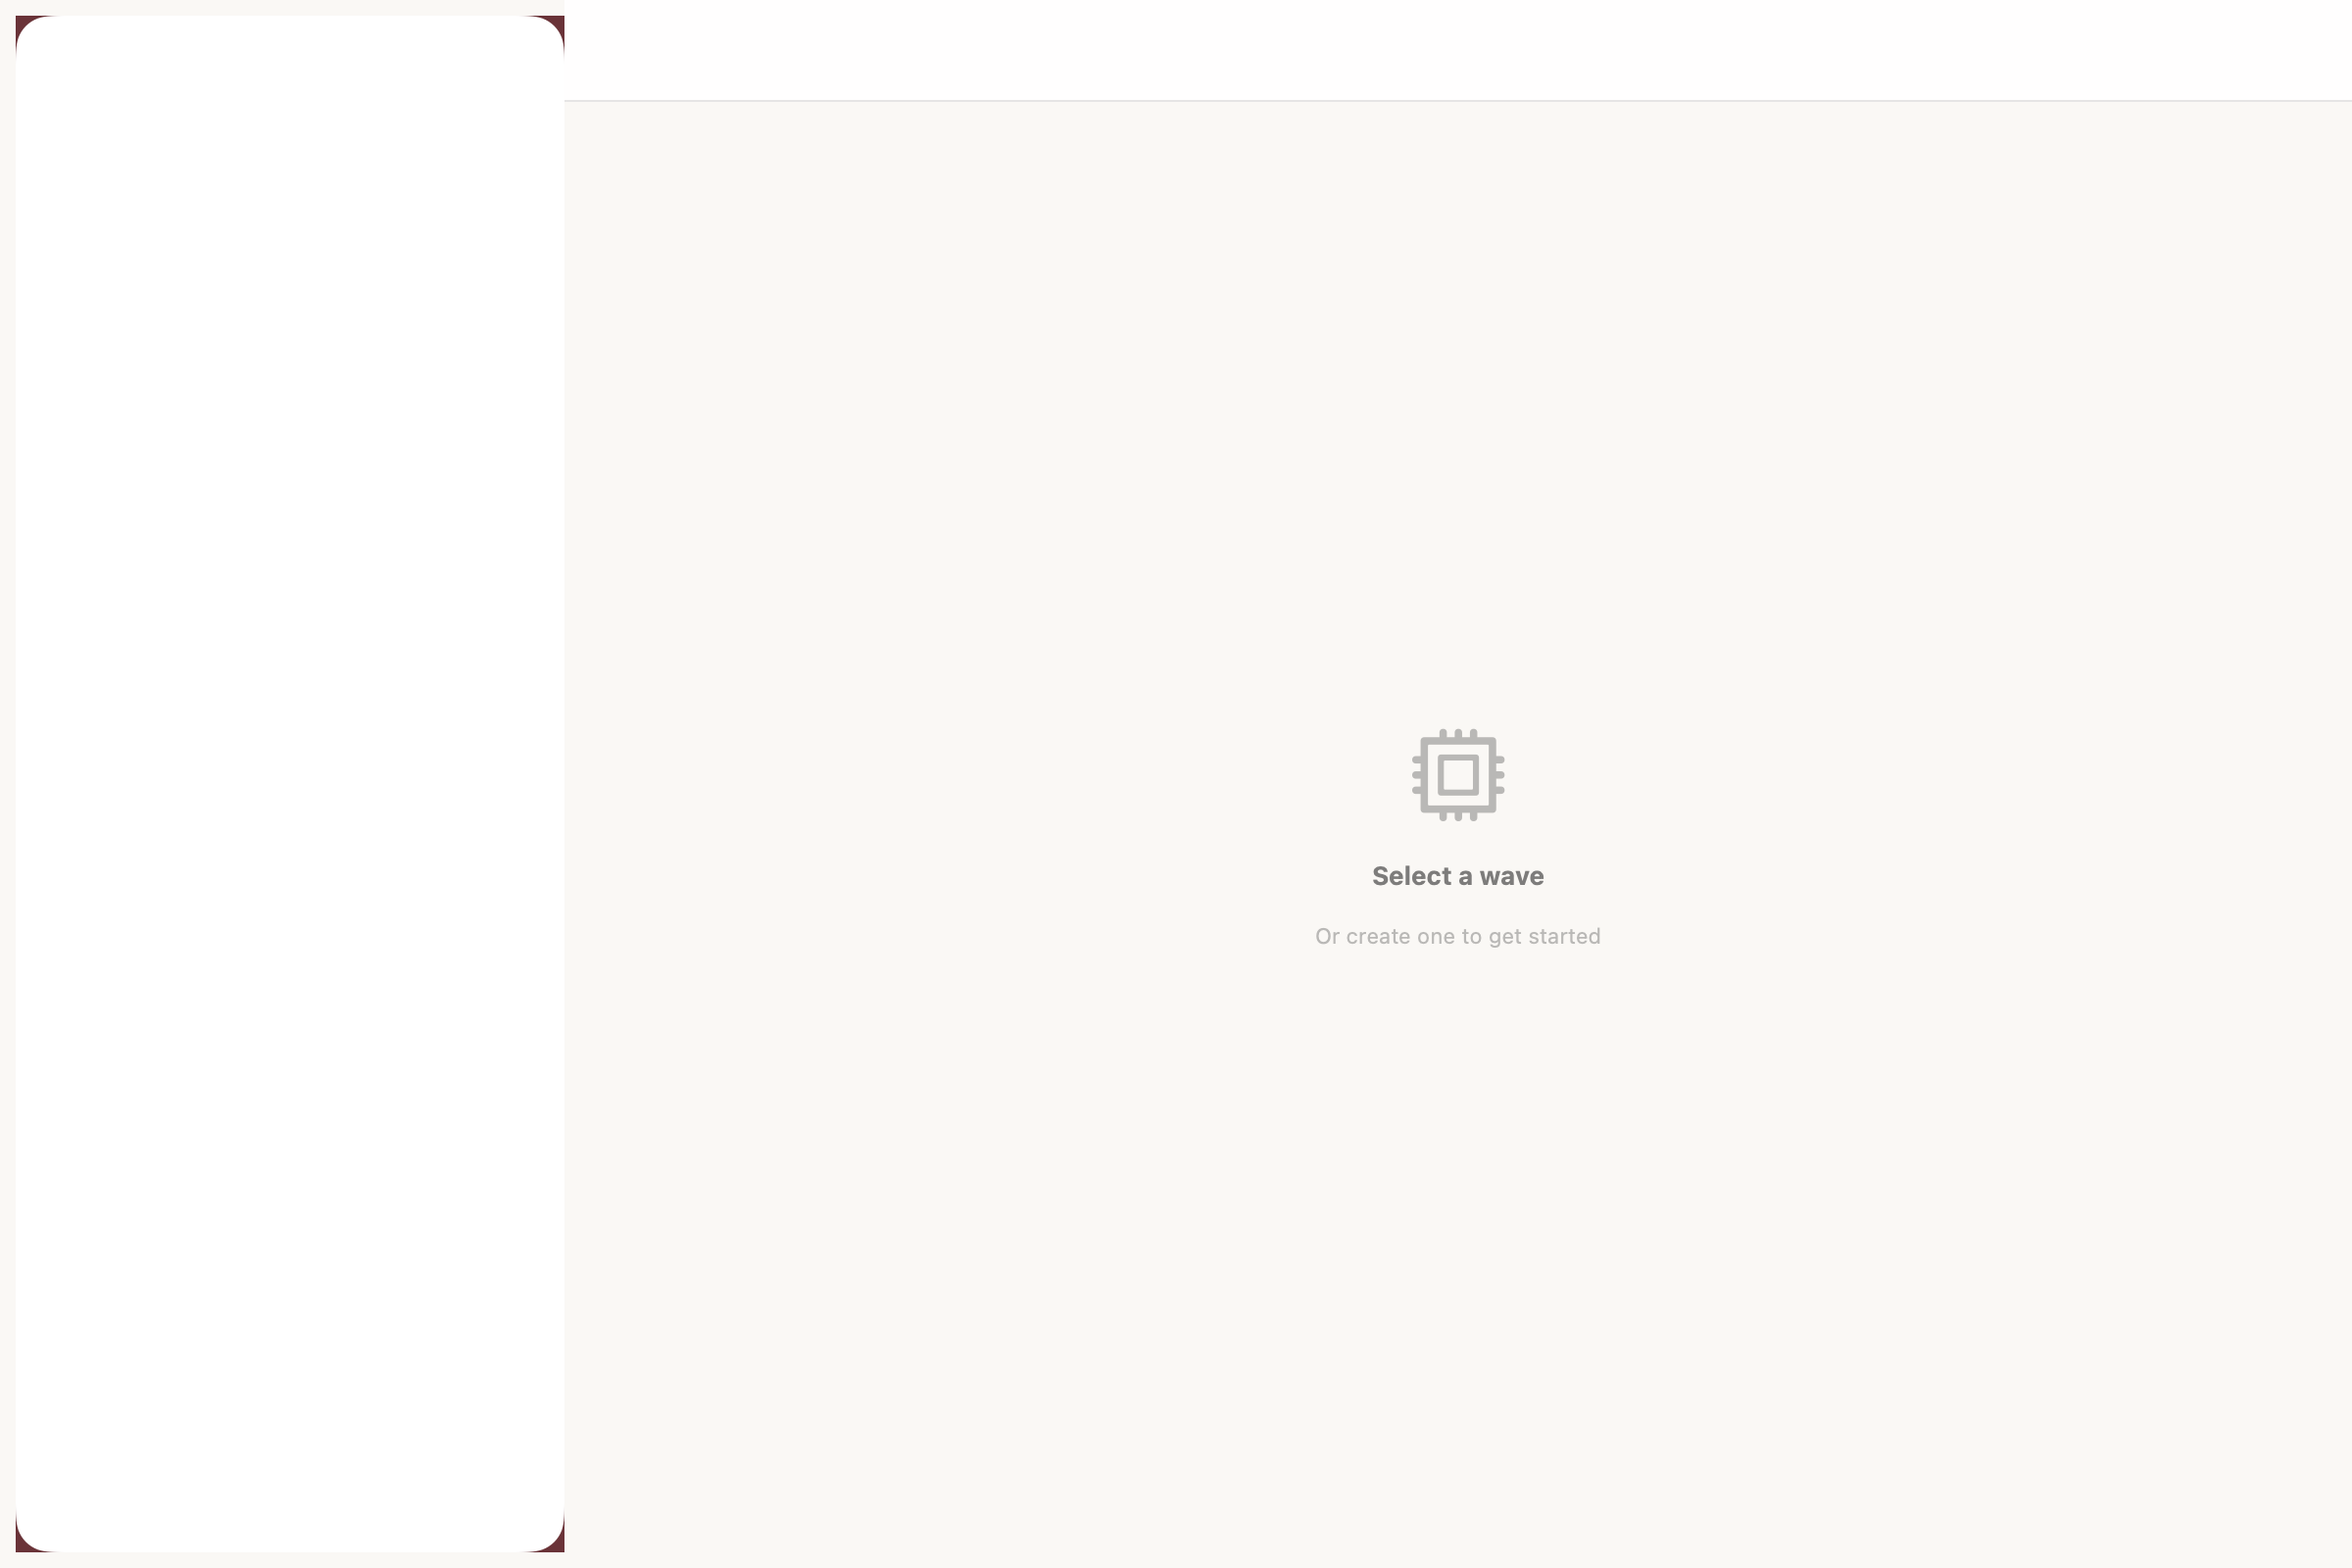
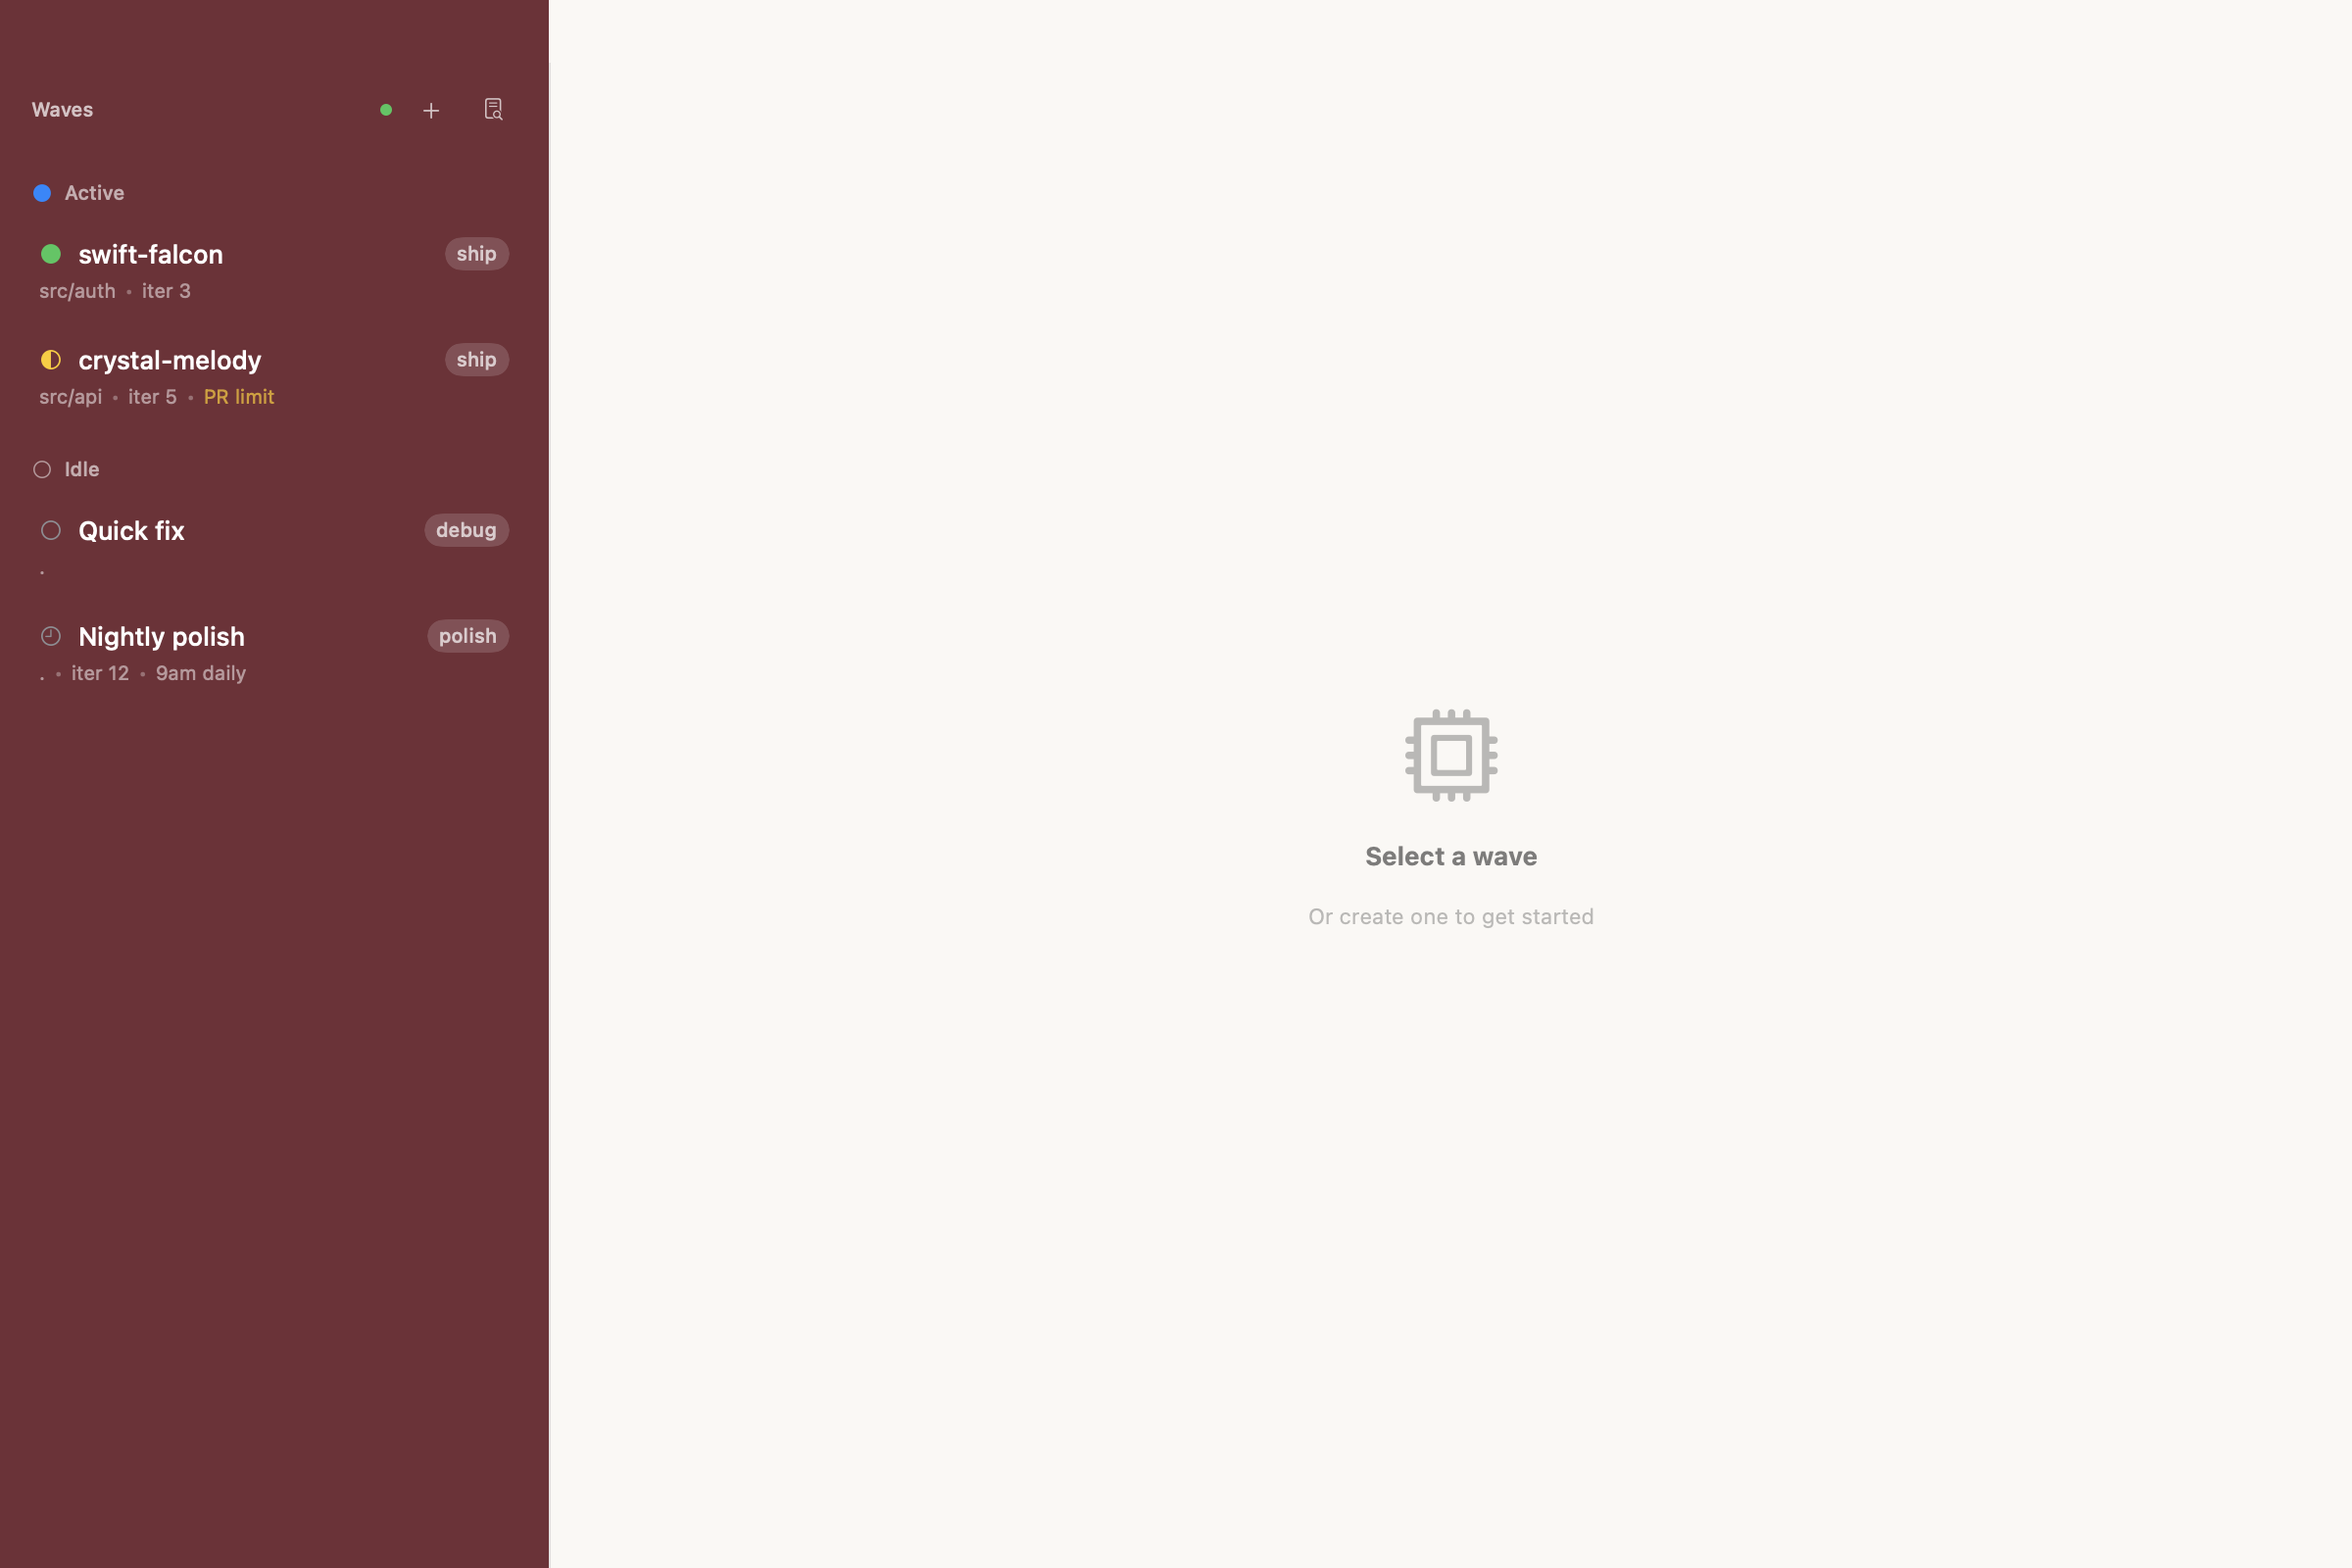
lf gate: screenshot: fix NavigationSplitView capture by using HStack layout
NavigationSplitView's sidebar doesn't render properly with bitmapImageRepForCachingDisplay. Replace with explicit HStack layout for screenshot mode, skip background refresh to preserve mock data, and add proper window activation before capture.

Changed region(s): [[0.0, 0.0, 0.25, 1.0], [0.5625, 0.4375, 0.6562, 0.625]]

diff --git a/swift/Concerto/Views/ScreenshotWindow.swift b/swift/Concerto/Views/ScreenshotWindow.swift
@@ -17,25 +17,30 @@ struct ScreenshotWindow: View {
     @State private var hasCaptured = false
 
     var body: some View {
-        ContentView()
+        // Use HStack layout for screenshot mode - NavigationSplitView doesn't capture properly
+        ScreenshotLayout()
             .environment(repoState)
             .environment(sessionState)
             .environment(launcherState)
+            .task {
+                await setupState()
+            }
             .background(WindowAccessor(onWindowReady: { window in
                 Task { @MainActor in
-                    await setupAndCapture(window: window)
+                    await captureWhenReady(window: window)
                 }
             }))
     }
 
-    private func setupAndCapture(window: NSWindow) async {
+    /// Configure state before the view fully renders.
+    private func setupState() async {
         guard !hasLoaded else { return }
         hasLoaded = true
 
-        // Open the repo if specified
+        // Open the repo if specified (skip background refresh in mock mode to avoid overwriting mock data)
         if let repoPath = mode.repoPath {
             let repoURL = URL(fileURLWithPath: (repoPath as NSString).expandingTildeInPath)
-            await repoState.openRepo(repoURL, launcherState: launcherState, sessionState: sessionState)
+            await repoState.openRepo(repoURL, launcherState: launcherState, sessionState: sessionState, skipBackgroundRefresh: mode.mockLoops)
         }
 
         // Configure mock waves if requested
@@ -46,6 +51,14 @@ struct ScreenshotWindow: View {
         // Select a specific wave if requested
         if let branch = mode.selectBranch {
             repoState.selectedWave = repoState.waves.first { $0.branch == branch }
+        }
+    }
+
+    /// Wait for view to stabilize and capture.
+    private func captureWhenReady(window: NSWindow) async {
+        // Wait for state setup to complete
+        while !hasLoaded {
+            try? await Task.sleep(for: .milliseconds(50))
         }
 
         // Resize window if specified
@@ -59,8 +72,12 @@ struct ScreenshotWindow: View {
             window.setFrame(newFrame, display: true, animate: false)
         }
 
-        // Wait for UI to stabilize
-        try? await Task.sleep(for: .seconds(1))
+        // Make window visible and key to trigger SwiftUI rendering
+        window.makeKeyAndOrderFront(nil)
+        NSApp.activate(ignoringOtherApps: true)
+
+        // Wait for SwiftUI to render the view with updated state
+        try? await Task.sleep(for: .seconds(2))
 
         // Capture and exit
         await snapshotAndExit(window: window)
@@ -81,6 +98,60 @@ struct ScreenshotWindow: View {
 
         // Exit the app
         NSApp.terminate(nil)
+    }
+}
+
+/// Layout for screenshot capture that uses HStack instead of NavigationSplitView.
+/// NavigationSplitView's sidebar doesn't capture properly with bitmapImageRepForCachingDisplay.
+private struct ScreenshotLayout: View {
+    @Environment(RepoState.self) private var repoState
+    @Environment(SessionState.self) private var sessionState
+    @Environment(LauncherState.self) private var launcherState
+    @Environment(\.colorScheme) private var colorScheme
+
+    private var palette: LoopflowPalette {
+        LoopflowPalette.make(for: colorScheme)
+    }
+
+    var body: some View {
+        HStack(spacing: 0) {
+            // Sidebar
+            WaveSidebar()
+                .frame(width: 280)
+
+            // Divider
+            Rectangle()
+                .fill(Color.gray.opacity(0.2))
+                .frame(width: 1)
+
+            // Detail
+            detailContent
+                .frame(maxWidth: .infinity, maxHeight: .infinity)
+        }
+        .background(palette.background)
+    }
+
+    @ViewBuilder
+    private var detailContent: some View {
+        if repoState.isLoading {
+            ProgressView("Loading...")
+                .frame(maxWidth: .infinity, maxHeight: .infinity)
+        } else if let wave = repoState.selectedWave {
+            WaveDetailPanel(wave: wave)
+        } else {
+            VStack(spacing: 16) {
+                Image(systemName: "cpu")
+                    .font(.system(size: 48))
+                    .foregroundStyle(.tertiary)
+                Text("Select a wave")
+                    .font(.headline)
+                    .foregroundStyle(.secondary)
+                Text("Or create one to get started")
+                    .font(.subheadline)
+                    .foregroundStyle(.tertiary)
+            }
+            .frame(maxWidth: .infinity, maxHeight: .infinity)
+        }
     }
 }
 

diff --git a/swift/Concerto/State/RepoState.swift b/swift/Concerto/State/RepoState.swift
@@ -160,6 +160,7 @@ final class RepoState {
     }
 
     func configureMockWaves() {
+        lfdConnected = true
         waves = [
             Wave(
                 id: "mock-wave-1",
@@ -237,7 +238,7 @@ final class RepoState {
         lfdConnected = true
     }
 
-    func openRepo(_ url: URL, launcherState: LauncherState, sessionState: SessionState) async {
+    func openRepo(_ url: URL, launcherState: LauncherState, sessionState: SessionState, skipBackgroundRefresh: Bool = false) async {
         let startTime = CFAbsoluteTimeGetCurrent()
         currentRepo = url
         isLoading = true
@@ -270,18 +271,20 @@ final class RepoState {
         isLoading = false
         LoggingService.append("openRepo.total elapsed=\(Int((CFAbsoluteTimeGetCurrent() - startTime) * 1000))ms")
 
-        // Background operations
-        Task {
-            let setupService = SetupService()
-            try? await setupService.ensureDaemonRunning()
-            startEventSubscription(sessionState: sessionState)
+        // Background operations (skip in screenshot mode to avoid overwriting mock data)
+        if !skipBackgroundRefresh {
+            Task {
+                let setupService = SetupService()
+                try? await setupService.ensureDaemonRunning()
+                startEventSubscription(sessionState: sessionState)
 
-            await refreshWaves()
-            await refreshFlowsAsync()
-            await launcherState.estimateTokens(repoURL: url)
+                await refreshWaves()
+                await refreshFlowsAsync()
+                await launcherState.estimateTokens(repoURL: url)
+            }
+
+            startAutoSyncTimer()
         }
-
-        startAutoSyncTimer()
     }
 
     // MARK: - Refresh Operations

diff --git a/swift/Concerto/Services/SnapshotService.swift b/swift/Concerto/Services/SnapshotService.swift
@@ -45,6 +45,8 @@ struct SnapshotService {
             throw SnapshotError.noContentView
         }
 
+        // Force window and view to update
+        window.displayIfNeeded()
         view.layoutSubtreeIfNeeded()
         let bounds = view.bounds
 

diff --git a/scripts/generate_screenshots.py b/scripts/generate_screenshots.py
@@ -55,7 +55,6 @@ def load_manifest(path: Path) -> Manifest:
     screenshots = []
     for shot in data.get("screenshots", []):
         size = shot.get("window_size")
-        viewport = shot.get("viewport")
         screenshots.append(
             Screenshot(
                 name=shot["name"],
@@ -66,9 +65,6 @@ def load_manifest(path: Path) -> Manifest:
                 ui_test_mode=shot.get("ui_test_mode"),
                 ui_test_select_branch=shot.get("ui_test_select_branch"),
                 ui_test_delay=shot.get("ui_test_delay"),
-                url=shot.get("url"),
-                viewport=tuple(viewport) if viewport else None,
-                wait_for=shot.get("wait_for"),
             )
         )
 
